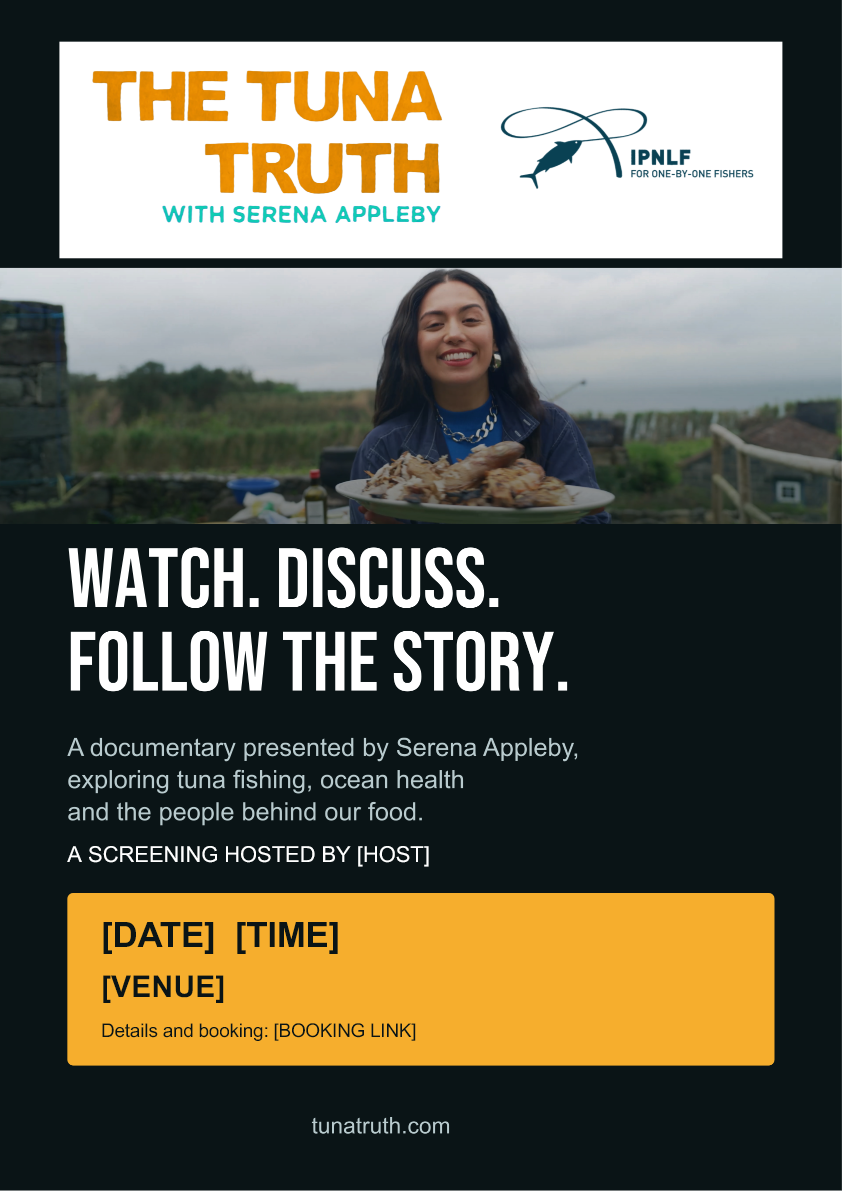
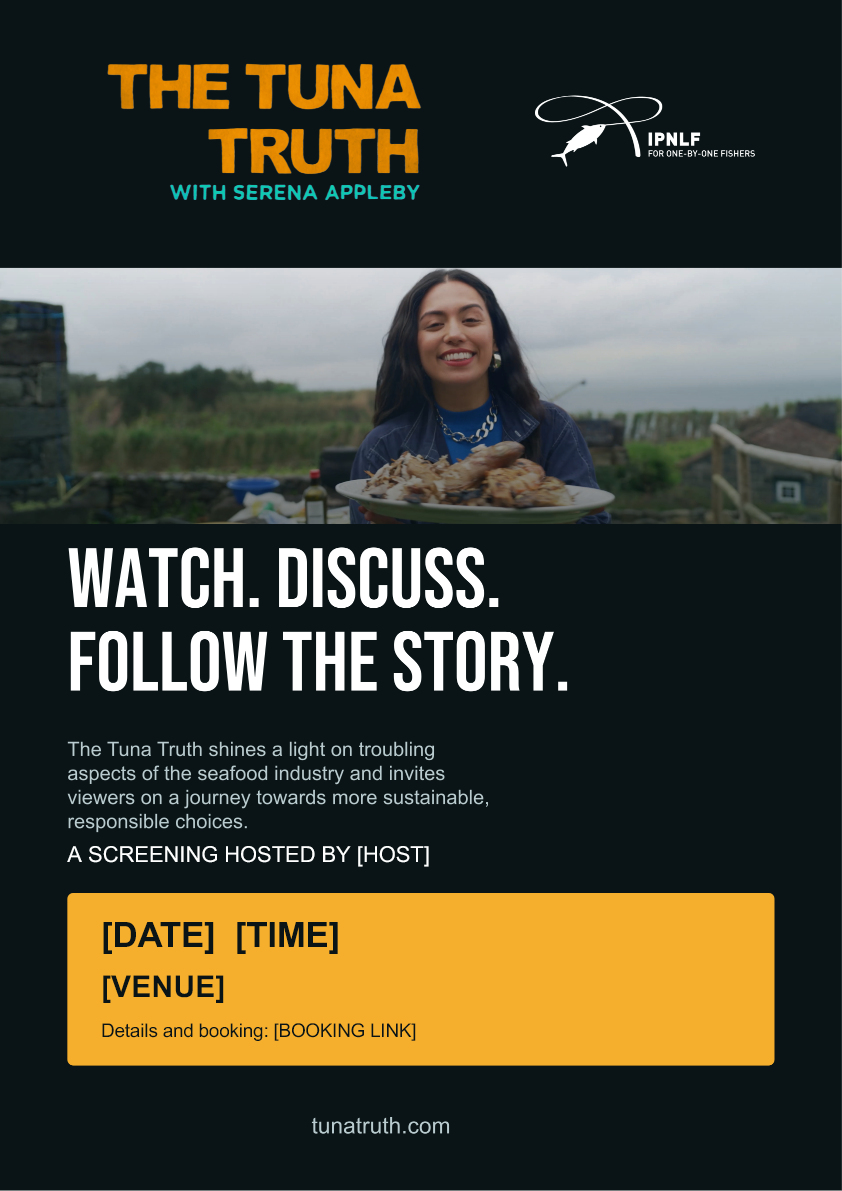
Hero: first line of the headline in the film's orange
"Host a screening" now takes --ipnlf-orange (#E88C33). The orange baked
into the wordmark is #E88C00, so this is within a couple of percent of
the poster's own title treatment rather than a new colour decision.

Deliberately NOT --ipnlf-gold: gold stays exclusive to the primary
action, so the headline and the button do not become the same colour
roughly 100px apart. Noted in the CSS so it survives future edits.

display:block makes the break deliberate, so the colour always covers
exactly "Host a screening" rather than being left to text-wrap.

Reviewed rendered, not just applied. At 320/390/768/1440: title holds
two lines at every width, the lead stays on one line (230px of text in
272px at 320, with Bebas confirmed loaded), no horizontal overflow
anywhere, hero CTA clears the fold, and the orange measures 7.18:1
against the scrim — above AA for both large and normal text.

Changed region(s): [[0.0618, 0.0311, 0.9572, 0.2175], [0.0618, 0.6213, 0.6793, 0.7145]]

diff --git a/assets/js/components.js b/assets/js/components.js
@@ -26,9 +26,9 @@ const TTS = (() => {
 
   // ---- small building blocks ----------------------------------
 
-  function wordmarkIpnlf(size) {
+  function wordmarkIpnlf(size, onDark = false) {
     return `<a href="https://ipnlf.org" target="_blank" rel="noopener" aria-label="IPNLF — for one-by-one fishers (opens ipnlf.org)">
-      <img class="tt-logo tt-logo--ipnlf tt-logo--${size}" src="assets/img/ipnlf-logo.png" alt="IPNLF — for one-by-one fishers">
+      <img class="tt-logo tt-logo--ipnlf tt-logo--${size}" src="assets/img/${onDark ? "ipnlf-logo-white.png" : "ipnlf-logo.png"}" alt="IPNLF — for one-by-one fishers">
     </a>`;
   }
 
@@ -73,7 +73,7 @@ const TTS = (() => {
     return `<section class="tts-hero">
       <img class="tts-hero__photo-mobile" src="assets/img/hero-photo.jpg" alt="A still from The Tuna Truth" loading="eager">
       <div class="tt-container tts-hero__inner">
-        <h1 class="tts-hero__title">Host a screening of ${cfg.filmName}</h1>
+        <h1 class="tts-hero__title"><span class="tts-hero__title-lead">Host a screening</span> of ${cfg.filmName}</h1>
         <!-- HOLDING COPY — requires IPNLF/production approval -->
         <p class="tts-hero__lede">Bring your workplace, school, university or community together to explore where tuna really comes from.</p>
         <div class="tts-hero__actions">
@@ -202,8 +202,8 @@ const TTS = (() => {
             <p class="tts-split__note">${cfg.extraSupportNote}</p>
           </div>
           <figure class="tts-template-preview">
-            <a href="assets/img/screening-poster-preview.png" target="_blank" rel="noopener" aria-label="Enlarge the sample screening poster (opens in a new tab)">
-              <img src="assets/img/screening-poster-preview.png" alt="Sample screening poster with The Tuna Truth and IPNLF logos, Serena Appleby, and editable host, date, time, venue and booking details" width="842" height="1191">
+            <a href="assets/img/screening-poster-preview.png?v=20261001-dark" target="_blank" rel="noopener" aria-label="Enlarge the sample screening poster (opens in a new tab)">
+              <img src="assets/img/screening-poster-preview.png?v=20261001-dark" alt="Sample screening poster with The Tuna Truth and IPNLF logos, Serena Appleby, and editable host, date, time, venue and booking details" width="842" height="1191">
               <span class="tts-template-preview__link">Enlarge sample poster ↗</span>
             </a>
             <figcaption><strong>Make it your event</strong>Editable promotional templates included.</figcaption>
@@ -321,7 +321,7 @@ const TTS = (() => {
         <div class="tt-footer__brands">
           ${wordmarkTunaTruth("xs", true)}
           <span class="tt-footer__x">×</span>
-          <span class="tt-logo-chip">${wordmarkIpnlf("xs")}</span>
+          ${wordmarkIpnlf("xs", true)}
         </div>
         <nav class="tt-footer__links" aria-label="Related links">
           <a href="https://www.tunatruth.com/" target="_blank" rel="noopener">tunatruth.com</a>

diff --git a/assets/css/screenings.css b/assets/css/screenings.css
@@ -199,6 +199,22 @@ a { color: var(--text-link); }
   color: var(--ipnlf-white);
   text-wrap: balance;
 }
+/* The first line takes the film's own title colour. --ipnlf-orange is
+   #E88C33; the orange baked into the wordmark is #E88C00, so this is
+   within a couple of percent of the poster's title treatment rather
+   than a new decision.
+   It is deliberately NOT --ipnlf-gold: gold stays exclusive to the
+   primary action, so the headline and the button do not become the
+   same colour ~100px apart. If this ever changes, re-check that the
+   button is still the one unmistakable warm element in the hero.
+   display:block makes the line break deliberate rather than leaving it
+   to text-wrap, so the colour always covers exactly "Host a screening"
+   and never half of the next phrase. */
+.tts-hero__title-lead {
+  display: block;
+  color: var(--ipnlf-orange);
+}
+
 .tts-hero__lede {
   margin: 0 0 var(--space-5);
   font-size: var(--fs-body-lg);
@@ -540,3 +556,7 @@ select:focus-visible, textarea:focus-visible {
   .tts-template-preview > a { display: block; }
   .tts-template-preview figcaption { margin-top: 16px; }
 }
+/* Keep practical and presenter copy at the same readable body size. */
+.tts-presenter__text > p, .tts-step p { font-size: var(--fs-body); }
+/* Keyboard focus stays visible for every link and disclosure. */
+a:focus-visible, summary:focus-visible { outline: 2px solid var(--ipnlf-teal); outline-offset: 4px; }

diff --git a/index.html b/index.html
@@ -30,7 +30,7 @@
 
 <link rel="icon" type="image/svg+xml" href="assets/img/favicon.svg">
 <link rel="stylesheet" href="assets/css/tokens.css">
-<link rel="stylesheet" href="assets/css/screenings.css?v=20261001-hosting-note">
+<link rel="stylesheet" href="assets/css/screenings.css?v=20261001-artwork-review">
 </head>
 <body>
 
@@ -59,8 +59,8 @@
 <main id="app-main"></main>
 <div id="app-footer"></div>
 
-<script src="assets/js/config.js?v=20261001-hosting-note"></script>
-<script src="assets/js/components.js?v=20261001-hosting-note"></script>
+<script src="assets/js/config.js?v=20261001-artwork-review"></script>
+<script src="assets/js/components.js?v=20261001-artwork-review"></script>
 <script>
   // Section order. Five sections, restructured 2026-10-01 from a
   // review: the film establishes itself, then the reader can judge
